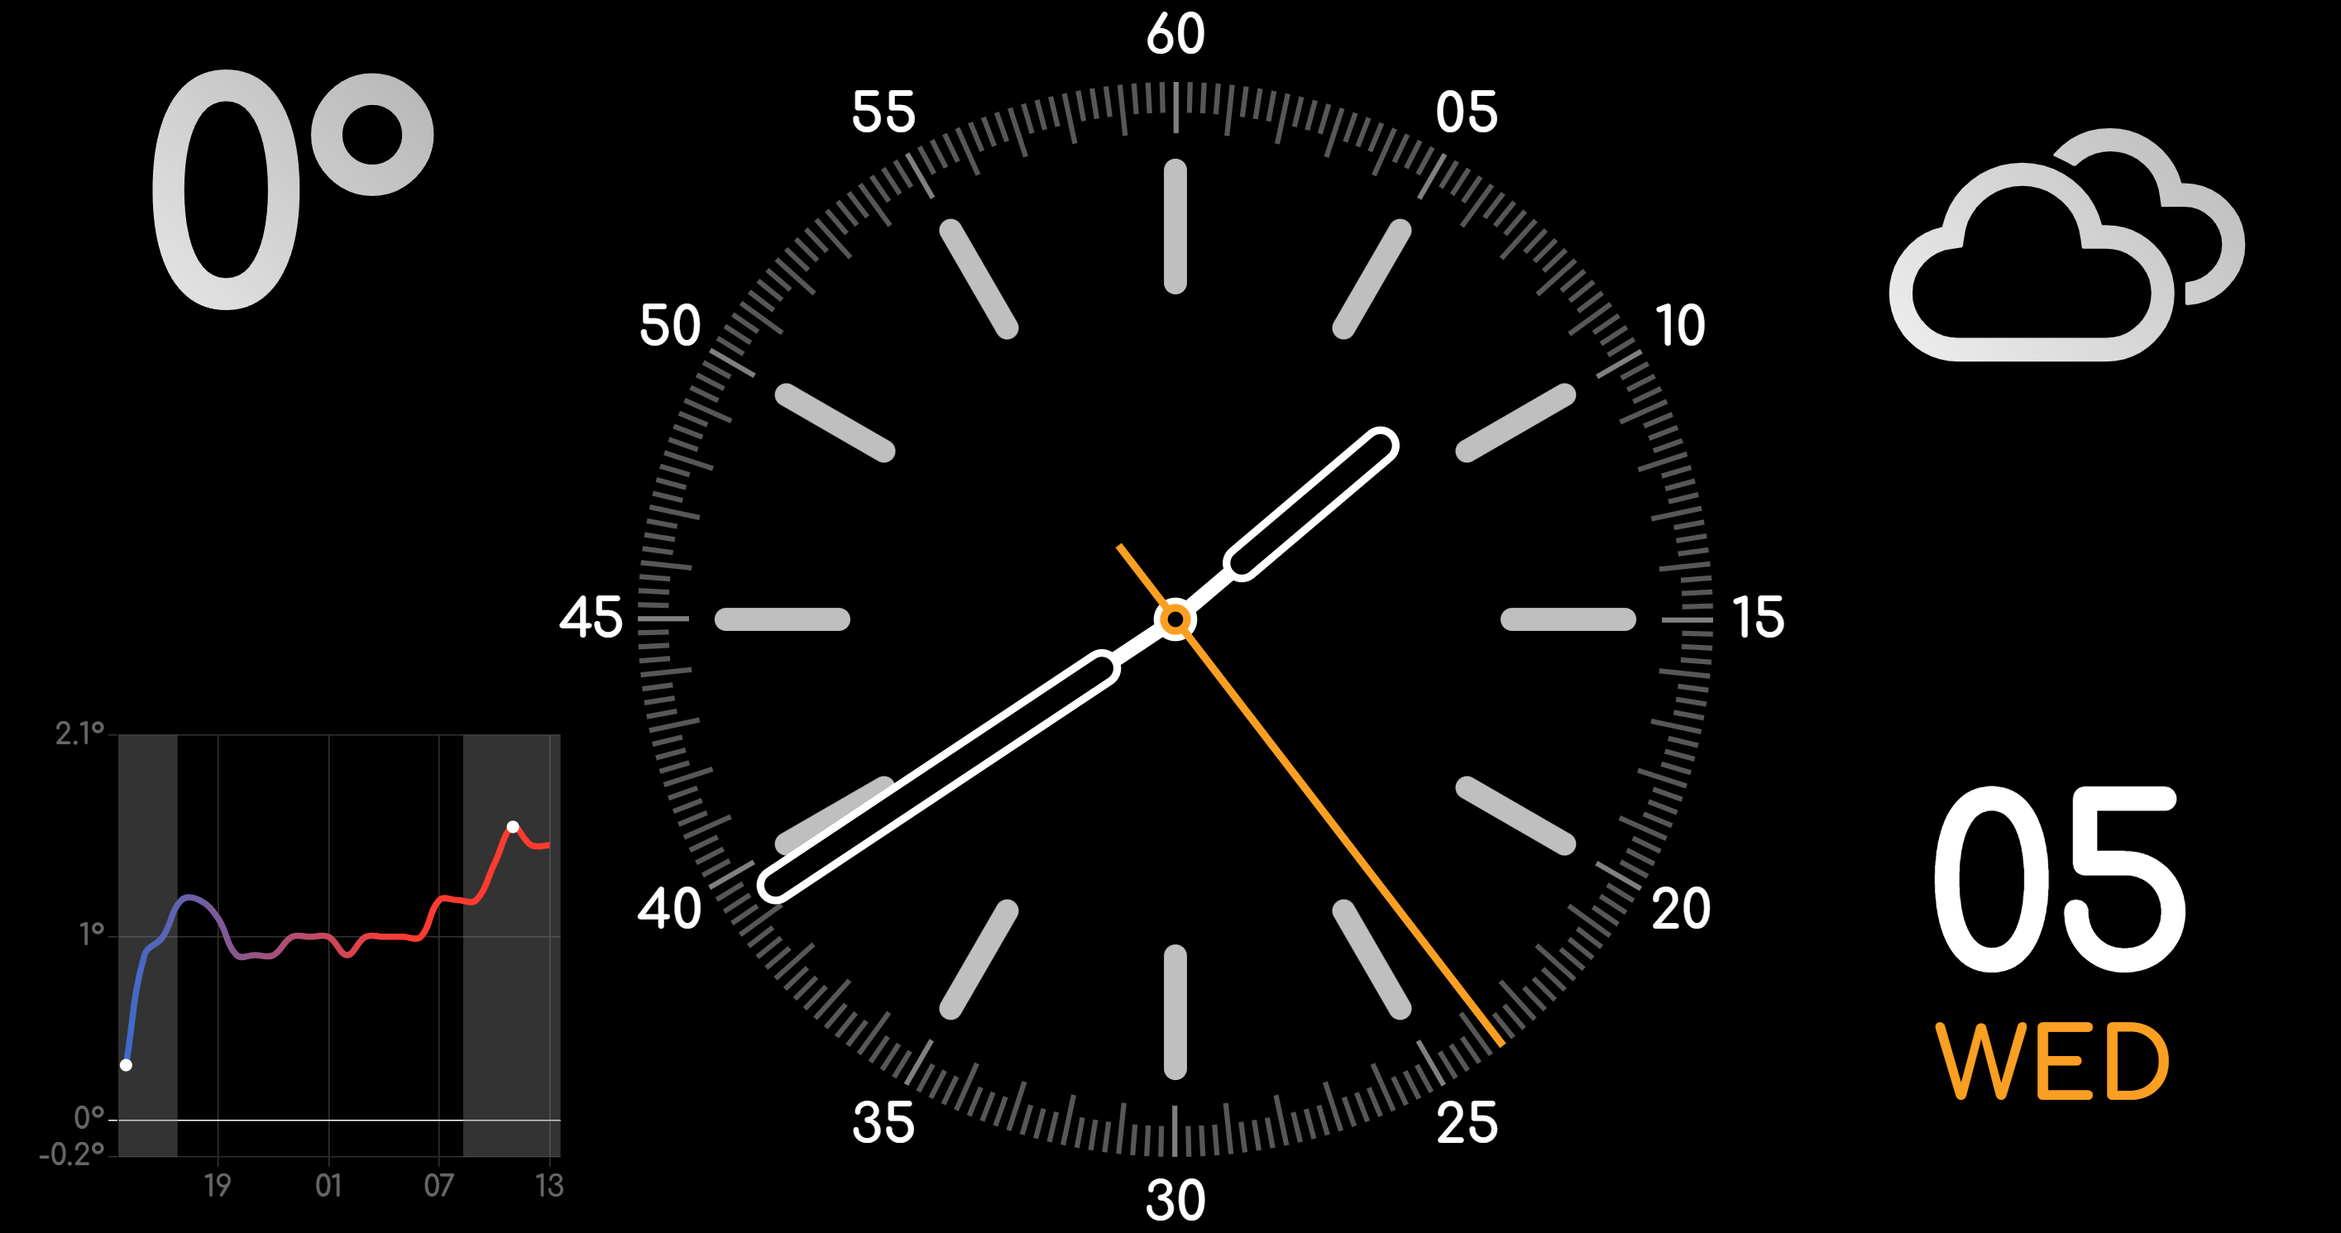
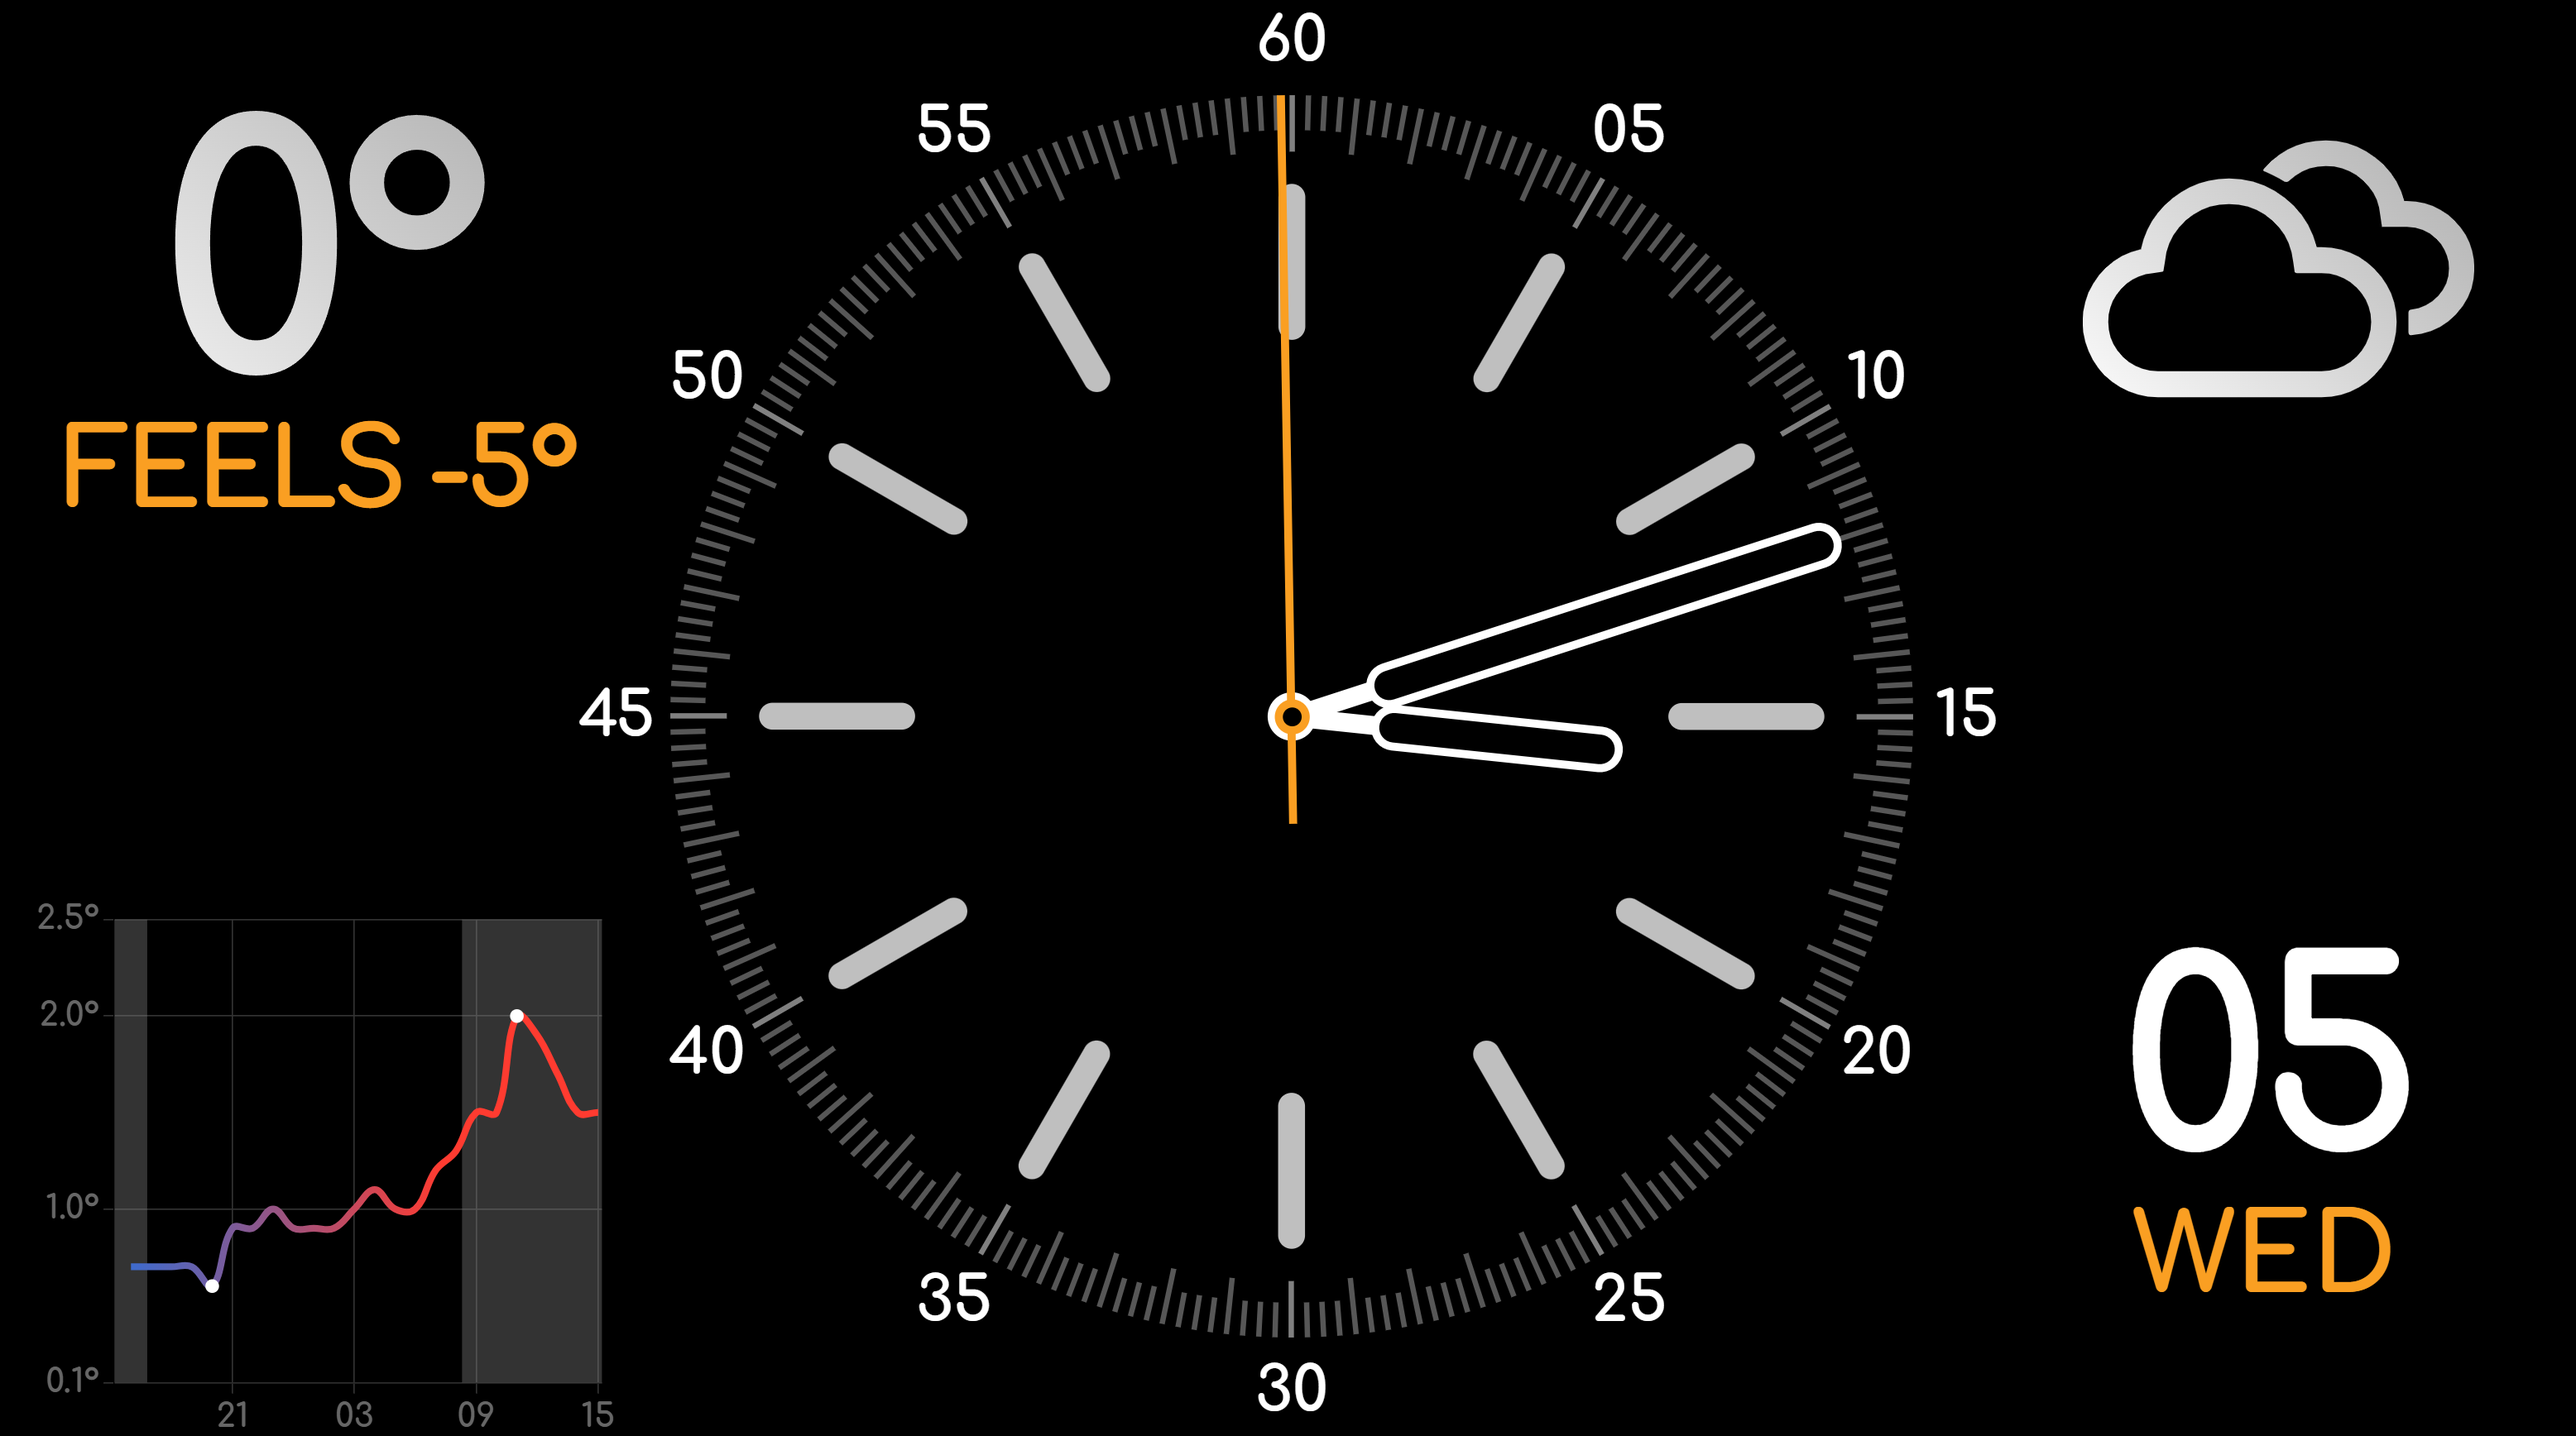
Added feels like

diff --git a/weather.css b/weather.css
@@ -36,7 +36,7 @@
 
 .top-left {
   top: 20px;
-  left: 20px;
+  left: -20px;
   display: flex;
   justify-content: center;
   align-items: center;
@@ -49,13 +49,20 @@
 }
 
 .bottom-left {
-  bottom: 20px;
+  width: 400px;
+  height: 350px;
+  bottom: 40px;
   left: 20px;
 }
 
 .bottom-right {
-  bottom: 20px;
+  bottom: 0px;
   right: 20px;
+  width: 400px;
+  height: 350px;
+  display: flex;
+  justify-content: center;
+  padding: 20px;
 }
 
 /* Weather icon container to match temperature sizing */
@@ -81,15 +88,7 @@
   background: #000;
   position: relative;
 }
-  .bottom-right {
-    bottom: 20px;
-    right: 20px;
-    width: 400px;
-    height: 400px;
-    display: flex;
-    justify-content: center;
-    padding: 20px;
-}
+
 
 #calendar {
     display: flex;
@@ -104,7 +103,6 @@
     flex-direction: column;
     align-items: center;
     color: #fff;
-    width: 200px; /* Fixed width container */
 }
 
 .day-number {
@@ -128,8 +126,6 @@
 }
 
 .temp-display {
-  width: 400px;
-  height: 350px;
   font-size: 15.5rem;
   font-weight: 900;
   font-family: 'Comfortaa', sans-serif;
@@ -137,7 +133,7 @@
   background: linear-gradient(45deg, #fff, #aaa);
   -webkit-background-clip: text;
   -webkit-text-fill-color: transparent;
-  margin: 0.5rem 0;
+  margin: 0;
 }
 
 /* Current time display */
@@ -146,4 +142,28 @@
   font-weight: 900;
   font-size: 2rem;
   color: #fa9f22;
+}
+
+.current-temp {
+  display: flex;
+  justify-content: center;
+  align-items: center;
+  width: 500px;  /* Match bottom-left width */
+  height: 400px; /* Match top-right height */
+}
+
+.temp-wrapper {
+  display: flex;
+  flex-direction: column;
+  align-items: center;
+  justify-content: center;
+}
+
+.feels-like {
+  font-family: 'Comfortaa', sans-serif;
+  font-size: 5rem;
+  font-weight: 900;
+  color: #fa9f22;  /* Matching the calendar day name color */
+  margin-top: -2rem;
+  letter-spacing: -0.05em;
 }

diff --git a/weather.js b/weather.js
@@ -1,8 +1,13 @@
 function updateCurrentWeather(data) {
   const current = data.current;
   const tempElement = document.getElementById('temperature');
+  const feelsElement = document.getElementById('feels-like');
+  
   if (tempElement) {
     tempElement.textContent = `${Math.round(current.temperature_2m)}°`;
+  }
+  if (feelsElement) {
+    feelsElement.textContent = `FEELS ${Math.round(current.apparent_temperature)}°`;
   }
   
   // Update weather icon
@@ -10,12 +15,11 @@ function updateCurrentWeather(data) {
     window.updateWeatherIcon(data);
   }
 }
-
 function fetchWeather() {
   const apiURL =
-    "https://api.open-meteo.com/v1/forecast?" +
+  "https://api.open-meteo.com/v1/forecast?" +
     "latitude=59.4165&longitude=24.7994" +
-    "&current=temperature_2m,is_day,weather_code" +
+    "&current=temperature_2m,apparent_temperature,is_day,weather_code" +
     "&hourly=temperature_2m" +
     "&daily=sunrise,sunset" +
     "&timezone=Europe/Tallinn";

diff --git a/index.php b/index.php
@@ -26,8 +26,14 @@
 <body>
   <!-- Weather Containers -->
   <div class="corner-square top-left">
-    <div class="current-temp">
-      <div class="temp-display" id="temperature">--°</div>
+
+  <div class="current-temp">
+      <div class="temp-wrapper">
+        <div class="temp-display" id="temperature"></div>
+        <div class="feels-like" id="feels-like"></div>
+      </div>
+    </div>
+
     </div>
   </div>
   <div class="corner-square top-right">
